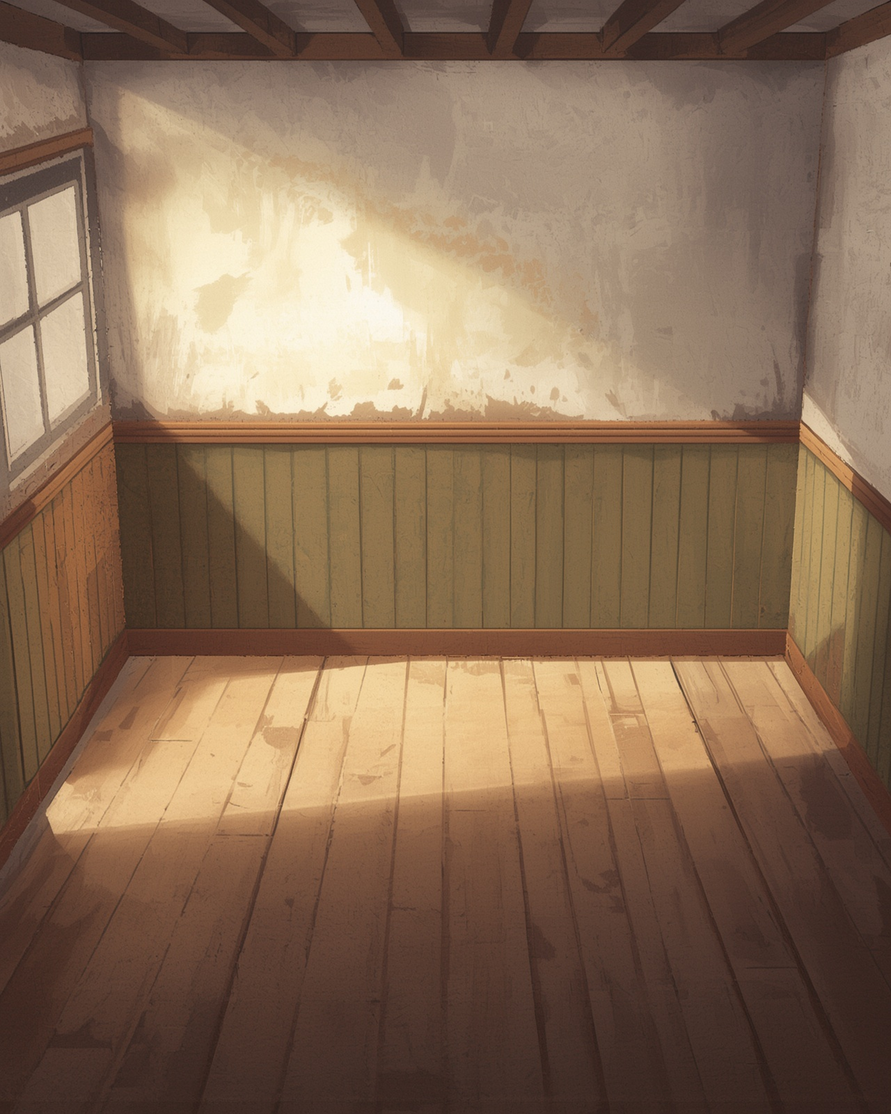
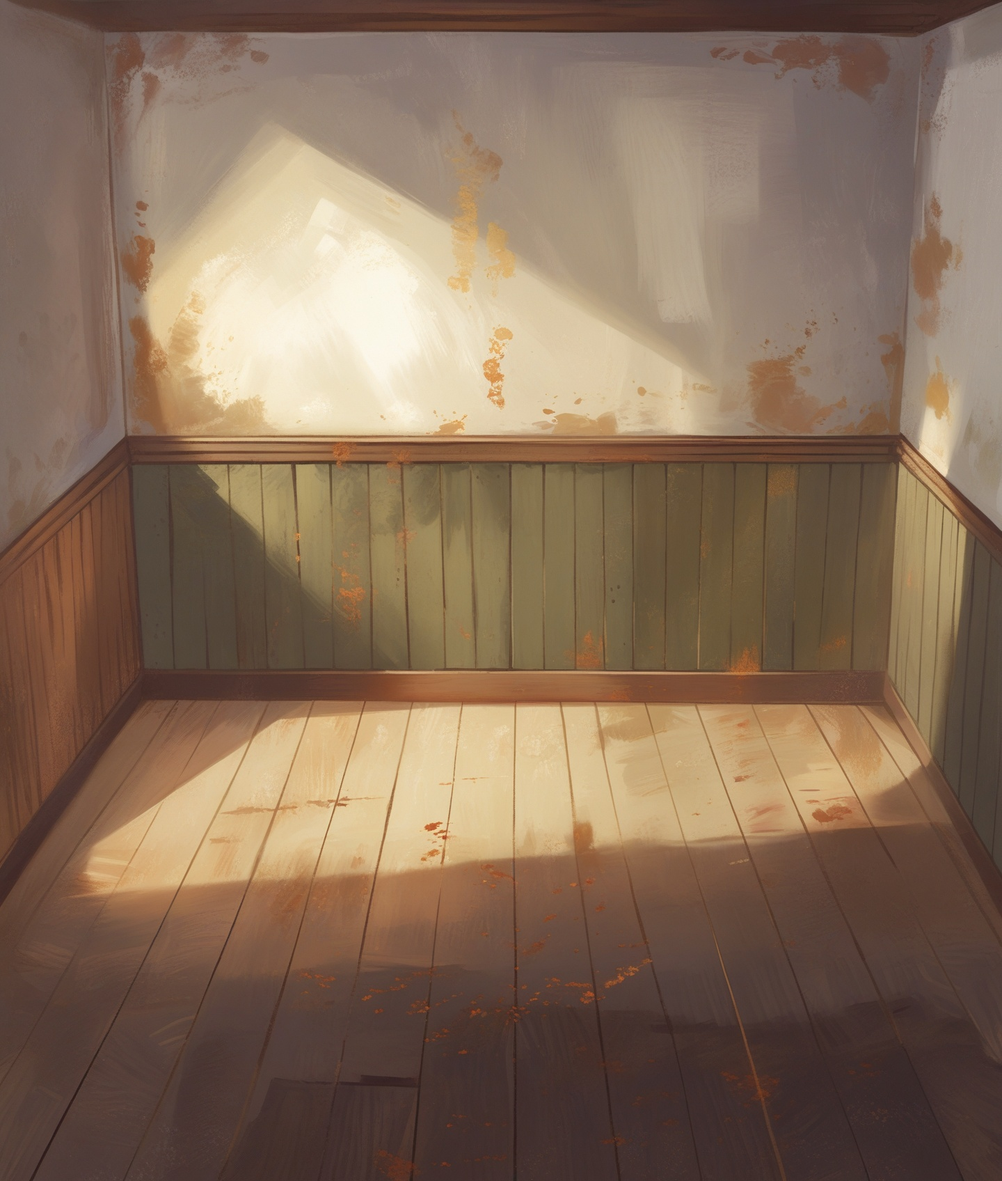
Art: new room backgrounds (cropped so the floor line sits at half height), wall clock series without numerals, blank sign sketch

diff --git a/assets/ART_TODO.md b/assets/ART_TODO.md
@@ -1,6 +1,6 @@
 # Графика: что переделать и что осталось
 
-Состояние на 13.10.2026: подключено 51 из 90 нужных картинок. Ниже два блока: **что переделать** (уже подключено, но с недостатками) и **что ещё не сгенерировано**. У каждой картинки — размер, промпт и отрицательный промпт; наборы N-… расписаны в конце файла, к каждому добавляйте N-COMMON.
+Состояние на 13.10.2026: подключено 54 из 90 нужных картинок. Ниже два блока: **что переделать** (уже подключено, но с недостатками) и **что ещё не сгенерировано**. У каждой картинки — размер, промпт и отрицательный промпт; наборы N-… расписаны в конце файла, к каждому добавляйте N-COMMON.
 
 Общие правила те же, что в `PROMPTS.md`:
 - генерируйте приватно (тариф Essential), на ровном белом фоне для спрайтов — фон я уберу сам при подключении;
@@ -14,7 +14,9 @@
 
 # Часть 1. Переделать
 
-## 1.1. Эскиз вывески — `find_f_sign` (сейчас не подключена)
+## 1.1. Эскиз вывески — `find_f_sign` — ✅ готово 13.10.2026
+
+Новая вывеска без надписи подключена. Раздел оставлен для справки.
 
 **Что не так:** на картинке крупно и читаемо написано «SHOP», в углу подпись «LADRE». Текста на картинках быть не должно (игра на двух языках, требование к медиаматериалам). Вместо букв — пустая табличка или орнамент.
 
@@ -26,10 +28,12 @@
 - **Как добиться:** если буквы всё равно появляются, сгенерируйте и закрасьте центр таблички через inpainting (Canvas → Inpaint) с промптом `empty blank sign panel, faint pencil guide lines`.
 
 ```
-cozy hand-painted 2D game illustration, soft painterly brushwork, warm golden afternoon light coming from the upper left, nostalgic calm mood, muted earthy palette of warm wood brown, cream, faded sage green, copper accents, dark metal and dust grey, clean readable shapes, gentle soft shadows, an old yellowed paper sheet on a wooden table with a pencil sketch of an ornate decorative shop sign: a curly wooden frame with flourishes and scrolls, the central panel of the sign is completely blank and empty, only faint pencil guide lines where letters will go, a few touches of paint on the scrolls, a pencil and a small brush lying next to the paper, horizontal 4:3 composition, full illustration with background, no text, no letters
+cozy hand-painted 2D game illustration, soft painterly brushwork, warm golden afternoon light coming from the upper left, nostalgic calm mood, muted earthy palette of warm wood brown, cream, faded sage green, copper accents, dark metal and dust grey, clean readable shapes, gentle soft shadows, flat frontal view straight at the back wall of a small room, like a theatre stage or a dollhouse with the front wall removed, the back wall faces the viewer squarely and fills exactly the upper half of the picture, a straight horizontal wooden baseboard runs across the whole width exactly at the middle height of the picture, the lower half of the picture is a wooden plank floor seen from slightly above with very gentle perspective, the planks run towards the wall, no side walls, no ceiling, no roof beams, no corners, symmetrical composition, the interior of an old family workshop: the back wall is made of vertical cream-painted wooden planks with a faded sage green wainscot panel along its lower part above the baseboard, the floor is worn warm brown wooden planks with a few scuffs, warm golden sunlight patches on the floor and the wall, the room is completely empty with no furniture and no objects, plenty of empty wall space, vertical composition, full background, an old yellowed paper sheet on a wooden table with a pencil sketch of an ornate decorative shop sign: a curly wooden frame with flourishes and scrolls, the central panel of the sign is completely blank and empty, only faint pencil guide lines where letters will go, a few touches of paint on the scrolls, a pencil and a small brush lying next to the paper, horizontal 4:3 composition, full illustration with background, no text, no letters
 ```
 
-## 1.2. Настенные часы — `obj_wall_clock_0`, `_1`, `_2`
+## 1.2. Настенные часы — `obj_wall_clock_0`, `_1`, `_2` — ✅ готово 13.10.2026
+
+Серия из трёх состояний без цифр подключена, контуры совпадают до пикселя. Раздел оставлен для справки: так стоит делать и остальные объекты.
 
 **Что не так:** на `obj_wall_clock_0` читаемые римские цифры; два присланных варианта для `_1` и `_2` (файлы `lucid-origin_…`) — с арабскими цифрами и это **другие часы**: при ремонте часы меняли бы форму. Нужна одна серия из трёх состояний одних и тех же часов, циферблат без цифр — с простыми метками-точками или чёрточками.
 
@@ -42,7 +46,7 @@ cozy hand-painted 2D game illustration, soft painterly brushwork, warm golden af
 - **Отрицательный промпт:** N-SPRITE + N-COMMON, дополнительно: `numerals, roman numerals, numbers, digits, brand name`
 
 ```
-cozy hand-painted 2D game illustration, soft painterly brushwork, warm golden afternoon light coming from the upper left, nostalgic calm mood, muted earthy palette of warm wood brown, cream, faded sage green, copper accents, dark metal and dust grey, clean readable shapes, gentle soft shadows, frontal view from slightly above (about 30 degrees), like looking into a dollhouse cutaway, a round vintage wall clock in a wooden case with a pendulum below, seen straight on, a plain cream clock face with simple small dot markers instead of numerals, no numbers, no roman numerals, fully restored and cared for, clean polished surfaces, warm rich colors, cozy and lived-in, running, the pendulum mid-swing, the clock face clean and bright, one single object only, centered, the whole object visible with a small empty margin around it, plain flat white background, no floor, no shadow on the ground
+cozy hand-painted 2D game illustration, soft painterly brushwork, warm golden afternoon light coming from the upper left, nostalgic calm mood, muted earthy palette of warm wood brown, cream, faded sage green, copper accents, dark metal and dust grey, clean readable shapes, gentle soft shadows, flat frontal view straight at the back wall of a small room, like a theatre stage or a dollhouse with the front wall removed, the back wall faces the viewer squarely and fills exactly the upper half of the picture, a straight horizontal wooden baseboard runs across the whole width exactly at the middle height of the picture, the lower half of the picture is a wooden plank floor seen from slightly above with very gentle perspective, the planks run towards the wall, no side walls, no ceiling, no roof beams, no corners, symmetrical composition, the interior of an old family workshop: the back wall is made of vertical cream-painted wooden planks with a faded sage green wainscot panel along its lower part above the baseboard, the floor is worn warm brown wooden planks with a few scuffs, warm golden sunlight patches on the floor and the wall, the room is completely empty with no furniture and no objects, plenty of empty wall space, vertical composition, full background, frontal view from slightly above (about 30 degrees), like looking into a dollhouse cutaway, a round vintage wall clock in a wooden case with a pendulum below, seen straight on, a plain cream clock face with simple small dot markers instead of numerals, no numbers, no roman numerals, fully restored and cared for, clean polished surfaces, warm rich colors, cozy and lived-in, running, the pendulum mid-swing, the clock face clean and bright, one single object only, centered, the whole object visible with a small empty margin around it, plain flat white background, no floor, no shadow on the ground
 ```
 
 ### `obj_wall_clock_1` — Настенные часы, шаг 1 из 2 (частично починено)
@@ -53,7 +57,7 @@ cozy hand-painted 2D game illustration, soft painterly brushwork, warm golden af
 - **Из `obj_wall_clock_2` через img2img, сила 0,3–0,5.**
 
 ```
-cozy hand-painted 2D game illustration, soft painterly brushwork, warm golden afternoon light coming from the upper left, nostalgic calm mood, muted earthy palette of warm wood brown, cream, faded sage green, copper accents, dark metal and dust grey, clean readable shapes, gentle soft shadows, frontal view from slightly above (about 30 degrees), like looking into a dollhouse cutaway, a round vintage wall clock in a wooden case with a pendulum below, seen straight on, a plain cream clock face with simple small dot markers instead of numerals, no numbers, no roman numerals, partly repaired: cleaned of dust, some parts fixed or replaced, a few signs of wear remain, warmer colors, new hands in place, the pendulum straight but still, one single object only, centered, the whole object visible with a small empty margin around it, plain flat white background, no floor, no shadow on the ground
+cozy hand-painted 2D game illustration, soft painterly brushwork, warm golden afternoon light coming from the upper left, nostalgic calm mood, muted earthy palette of warm wood brown, cream, faded sage green, copper accents, dark metal and dust grey, clean readable shapes, gentle soft shadows, flat frontal view straight at the back wall of a small room, like a theatre stage or a dollhouse with the front wall removed, the back wall faces the viewer squarely and fills exactly the upper half of the picture, a straight horizontal wooden baseboard runs across the whole width exactly at the middle height of the picture, the lower half of the picture is a wooden plank floor seen from slightly above with very gentle perspective, the planks run towards the wall, no side walls, no ceiling, no roof beams, no corners, symmetrical composition, the interior of an old family workshop: the back wall is made of vertical cream-painted wooden planks with a faded sage green wainscot panel along its lower part above the baseboard, the floor is worn warm brown wooden planks with a few scuffs, warm golden sunlight patches on the floor and the wall, the room is completely empty with no furniture and no objects, plenty of empty wall space, vertical composition, full background, frontal view from slightly above (about 30 degrees), like looking into a dollhouse cutaway, a round vintage wall clock in a wooden case with a pendulum below, seen straight on, a plain cream clock face with simple small dot markers instead of numerals, no numbers, no roman numerals, partly repaired: cleaned of dust, some parts fixed or replaced, a few signs of wear remain, warmer colors, new hands in place, the pendulum straight but still, one single object only, centered, the whole object visible with a small empty margin around it, plain flat white background, no floor, no shadow on the ground
 ```
 
 ### `obj_wall_clock_0` — Настенные часы, шаг 0 из 2 (заброшено)
@@ -64,7 +68,7 @@ cozy hand-painted 2D game illustration, soft painterly brushwork, warm golden af
 - **Из `obj_wall_clock_2` через img2img, сила 0,4–0,5.**
 
 ```
-cozy hand-painted 2D game illustration, soft painterly brushwork, warm golden afternoon light coming from the upper left, nostalgic calm mood, muted earthy palette of warm wood brown, cream, faded sage green, copper accents, dark metal and dust grey, clean readable shapes, gentle soft shadows, frontal view from slightly above (about 30 degrees), like looking into a dollhouse cutaway, a round vintage wall clock in a wooden case with a pendulum below, seen straight on, a plain cream clock face with simple small dot markers instead of numerals, no numbers, no roman numerals, abandoned and neglected, covered in thick dust and cobwebs, broken and missing parts, faded desaturated grey-brown colors, the glass cracked, the hands missing, the pendulum hanging crooked, one single object only, centered, the whole object visible with a small empty margin around it, plain flat white background, no floor, no shadow on the ground
+cozy hand-painted 2D game illustration, soft painterly brushwork, warm golden afternoon light coming from the upper left, nostalgic calm mood, muted earthy palette of warm wood brown, cream, faded sage green, copper accents, dark metal and dust grey, clean readable shapes, gentle soft shadows, flat frontal view straight at the back wall of a small room, like a theatre stage or a dollhouse with the front wall removed, the back wall faces the viewer squarely and fills exactly the upper half of the picture, a straight horizontal wooden baseboard runs across the whole width exactly at the middle height of the picture, the lower half of the picture is a wooden plank floor seen from slightly above with very gentle perspective, the planks run towards the wall, no side walls, no ceiling, no roof beams, no corners, symmetrical composition, the interior of an old family workshop: the back wall is made of vertical cream-painted wooden planks with a faded sage green wainscot panel along its lower part above the baseboard, the floor is worn warm brown wooden planks with a few scuffs, warm golden sunlight patches on the floor and the wall, the room is completely empty with no furniture and no objects, plenty of empty wall space, vertical composition, full background, frontal view from slightly above (about 30 degrees), like looking into a dollhouse cutaway, a round vintage wall clock in a wooden case with a pendulum below, seen straight on, a plain cream clock face with simple small dot markers instead of numerals, no numbers, no roman numerals, abandoned and neglected, covered in thick dust and cobwebs, broken and missing parts, faded desaturated grey-brown colors, the glass cracked, the hands missing, the pendulum hanging crooked, one single object only, centered, the whole object visible with a small empty margin around it, plain flat white background, no floor, no shadow on the ground
 ```
 
 ## 1.3. Финальная карточка мастерской — `final_card` (по желанию)
@@ -78,10 +82,12 @@ cozy hand-painted 2D game illustration, soft painterly brushwork, warm golden af
 - **Отрицательный промпт:** N-CARD + N-COMMON, дополнительно: `numerals, roman numerals, numbers, digits`
 
 ```
-cozy hand-painted 2D game illustration, soft painterly brushwork, warm golden afternoon light coming from the upper left, nostalgic calm mood, muted earthy palette of warm wood brown, cream, faded sage green, copper accents, dark metal and dust grey, clean readable shapes, gentle soft shadows, a fully restored cozy workshop in the warm evening: the desk lamp glowing, the radio dial lit, a round wall clock with a plain cream face and simple dot markers instead of numerals on the wall, tools neatly in their places, everything warm and alive, horizontal 4:3 composition, full illustration with background
+cozy hand-painted 2D game illustration, soft painterly brushwork, warm golden afternoon light coming from the upper left, nostalgic calm mood, muted earthy palette of warm wood brown, cream, faded sage green, copper accents, dark metal and dust grey, clean readable shapes, gentle soft shadows, flat frontal view straight at the back wall of a small room, like a theatre stage or a dollhouse with the front wall removed, the back wall faces the viewer squarely and fills exactly the upper half of the picture, a straight horizontal wooden baseboard runs across the whole width exactly at the middle height of the picture, the lower half of the picture is a wooden plank floor seen from slightly above with very gentle perspective, the planks run towards the wall, no side walls, no ceiling, no roof beams, no corners, symmetrical composition, the interior of an old family workshop: the back wall is made of vertical cream-painted wooden planks with a faded sage green wainscot panel along its lower part above the baseboard, the floor is worn warm brown wooden planks with a few scuffs, warm golden sunlight patches on the floor and the wall, the room is completely empty with no furniture and no objects, plenty of empty wall space, vertical composition, full background, a fully restored cozy workshop in the warm evening: the desk lamp glowing, the radio dial lit, a round wall clock with a plain cream face and simple dot markers instead of numerals on the wall, tools neatly in their places, everything warm and alive, horizontal 4:3 composition, full illustration with background
 ```
 
-## 1.4. Фоны комнат — `room_bg` и `room_paint_bg` (обязательно)
+## 1.4. Фоны комнат — `room_bg` и `room_paint_bg` — ✅ готово 13.10.2026
+
+Новые фоны подключены. Плинтус у них был на 60–61% высоты: я срезал сверху полосу потолка и немного боковых стен, чтобы он встал ровно посередине (оригиналы — в `assets/source/raw/`). Если будете перегенерировать — делайте сразу по подсказке композиции.
 
 **Что не так:** игра расставляет объекты по сетке: всё настенное (полки, окна, часы, антресоль, радио, стеллаж) стоит в **верхней половине** комнаты, всё напольное (верстак, шкаф, столы, кучи завала) — в **нижней**. Нынешние фоны нарисованы с глубокой перспективой: двускатная крыша, большие боковые стены, пол начинается ниже середины. Поэтому напольные вещи «залезают» на стены.
 
@@ -106,7 +112,7 @@ cozy hand-painted 2D game illustration, soft painterly brushwork, warm golden af
 - **Важно:** никаких предметов — окно, полка, часы, верстак и шкаф будут отдельными спрайтами поверх фона.
 
 ```
-cozy hand-painted 2D game illustration, soft painterly brushwork, warm golden afternoon light coming from the upper left, nostalgic calm mood, muted earthy palette of warm wood brown, cream, faded sage green, copper accents, dark metal and dust grey, clean readable shapes, gentle soft shadows, flat frontal view straight at the back wall of a small room, like a theatre stage or a dollhouse with the front wall removed, the back wall faces the viewer squarely and fills exactly the upper half of the picture, a straight horizontal wooden baseboard runs across the whole width exactly at the middle height of the picture, the lower half of the picture is a wooden plank floor seen from slightly above with very gentle perspective, the planks run towards the wall, no side walls, no ceiling, no roof beams, no corners, symmetrical composition, the interior of an old family workshop: the back wall is made of vertical cream-painted wooden planks with a faded sage green wainscot panel along its lower part above the baseboard, the floor is worn warm brown wooden planks with a few scuffs, warm golden sunlight patches on the floor and the wall, the room is completely empty with no furniture and no objects, plenty of empty wall space, vertical composition, full background
+cozy hand-painted 2D game illustration, soft painterly brushwork, warm golden afternoon light coming from the upper left, nostalgic calm mood, muted earthy palette of warm wood brown, cream, faded sage green, copper accents, dark metal and dust grey, clean readable shapes, gentle soft shadows, flat frontal view straight at the back wall of a small room, like a theatre stage or a dollhouse with the front wall removed, the back wall faces the viewer squarely and fills exactly the upper half of the picture, a straight horizontal wooden baseboard runs across the whole width exactly at the middle height of the picture, the lower half of the picture is a wooden plank floor seen from slightly above with very gentle perspective, the planks run towards the wall, no side walls, no ceiling, no roof beams, no corners, symmetrical composition, the interior of an old family workshop: the back wall is made of vertical cream-painted wooden planks with a faded sage green wainscot panel along its lower part above the baseboard, the floor is worn warm brown wooden planks with a few scuffs, warm golden sunlight patches on the floor and the wall, the room is completely empty with no furniture and no objects, plenty of empty wall space, vertical composition, full background, flat frontal view straight at the back wall of a small room, like a theatre stage or a dollhouse with the front wall removed, the back wall faces the viewer squarely and fills exactly the upper half of the picture, a straight horizontal wooden baseboard runs across the whole width exactly at the middle height of the picture, the lower half of the picture is a wooden plank floor seen from slightly above with very gentle perspective, the planks run towards the wall, no side walls, no ceiling, no roof beams, no corners, symmetrical composition, the interior of an old family workshop: the back wall is made of vertical cream-painted wooden planks with a faded sage green wainscot panel along its lower part above the baseboard, the floor is worn warm brown wooden planks with a few scuffs, warm golden sunlight patches on the floor and the wall, the room is completely empty with no furniture and no objects, plenty of empty wall space, vertical composition, full background
 ```
 
 ### `room_paint_bg` — Фон малярной (пустая комната)
@@ -118,7 +124,7 @@ cozy hand-painted 2D game illustration, soft painterly brushwork, warm golden af
 - **Важно:** тот же ракурс и линия пола, что у мастерской: комнаты должны выглядеть соседними в одном доме. Стеллаж, окно, мольберт, стремянку и столы не рисовать.
 
 ```
-cozy hand-painted 2D game illustration, soft painterly brushwork, warm golden afternoon light coming from the upper left, nostalgic calm mood, muted earthy palette of warm wood brown, cream, faded sage green, copper accents, dark metal and dust grey, clean readable shapes, gentle soft shadows, flat frontal view straight at the back wall of a small room, like a theatre stage or a dollhouse with the front wall removed, the back wall faces the viewer squarely and fills exactly the upper half of the picture, a straight horizontal wooden baseboard runs across the whole width exactly at the middle height of the picture, the lower half of the picture is a wooden plank floor seen from slightly above with very gentle perspective, the planks run towards the wall, no side walls, no ceiling, no roof beams, no corners, symmetrical composition, the interior of an old family paint shop: the back wall is whitewashed plaster with old faint splashes of honey, sage green and warm red paint and a sage green wooden wainscot panel along its lower part above the baseboard, the floor is worn light wooden planks with old dried paint drips, warm golden sunlight patches on the floor and the wall, the room is completely empty with no furniture and no objects, plenty of empty wall space, vertical composition, full background
+cozy hand-painted 2D game illustration, soft painterly brushwork, warm golden afternoon light coming from the upper left, nostalgic calm mood, muted earthy palette of warm wood brown, cream, faded sage green, copper accents, dark metal and dust grey, clean readable shapes, gentle soft shadows, flat frontal view straight at the back wall of a small room, like a theatre stage or a dollhouse with the front wall removed, the back wall faces the viewer squarely and fills exactly the upper half of the picture, a straight horizontal wooden baseboard runs across the whole width exactly at the middle height of the picture, the lower half of the picture is a wooden plank floor seen from slightly above with very gentle perspective, the planks run towards the wall, no side walls, no ceiling, no roof beams, no corners, symmetrical composition, the interior of an old family workshop: the back wall is made of vertical cream-painted wooden planks with a faded sage green wainscot panel along its lower part above the baseboard, the floor is worn warm brown wooden planks with a few scuffs, warm golden sunlight patches on the floor and the wall, the room is completely empty with no furniture and no objects, plenty of empty wall space, vertical composition, full background, flat frontal view straight at the back wall of a small room, like a theatre stage or a dollhouse with the front wall removed, the back wall faces the viewer squarely and fills exactly the upper half of the picture, a straight horizontal wooden baseboard runs across the whole width exactly at the middle height of the picture, the lower half of the picture is a wooden plank floor seen from slightly above with very gentle perspective, the planks run towards the wall, no side walls, no ceiling, no roof beams, no corners, symmetrical composition, the interior of an old family paint shop: the back wall is whitewashed plaster with old faint splashes of honey, sage green and warm red paint and a sage green wooden wainscot panel along its lower part above the baseboard, the floor is worn light wooden planks with old dried paint drips, warm golden sunlight patches on the floor and the wall, the room is completely empty with no furniture and no objects, plenty of empty wall space, vertical composition, full background
 ```
 
 ## 1.5. Окно — `obj_window_0`, `_1`, `_2` (по желанию)
@@ -132,7 +138,7 @@ cozy hand-painted 2D game illustration, soft painterly brushwork, warm golden af
 - **Отрицательный промпт:** N-SPRITE + N-COMMON, дополнительно: `plaster, wall patch, brush strokes around the object, splashes, vines outside the frame`
 
 ```
-cozy hand-painted 2D game illustration, soft painterly brushwork, warm golden afternoon light coming from the upper left, nostalgic calm mood, muted earthy palette of warm wood brown, cream, faded sage green, copper accents, dark metal and dust grey, clean readable shapes, gentle soft shadows, frontal view from slightly above (about 30 degrees), like looking into a dollhouse cutaway, an old small-paned wooden window seen straight on, as a separate object, crisp clean edges around the frame, nothing around the frame, no wall, no plaster, no paint strokes around it, fully restored and cared for, clean polished surfaces, warm rich colors, cozy and lived-in, clean clear panes with warm daylight shining through, a green leafy view outside, one single object only, centered, the whole object visible with a small empty margin around it, plain flat white background, no floor, no shadow on the ground
+cozy hand-painted 2D game illustration, soft painterly brushwork, warm golden afternoon light coming from the upper left, nostalgic calm mood, muted earthy palette of warm wood brown, cream, faded sage green, copper accents, dark metal and dust grey, clean readable shapes, gentle soft shadows, flat frontal view straight at the back wall of a small room, like a theatre stage or a dollhouse with the front wall removed, the back wall faces the viewer squarely and fills exactly the upper half of the picture, a straight horizontal wooden baseboard runs across the whole width exactly at the middle height of the picture, the lower half of the picture is a wooden plank floor seen from slightly above with very gentle perspective, the planks run towards the wall, no side walls, no ceiling, no roof beams, no corners, symmetrical composition, the interior of an old family workshop: the back wall is made of vertical cream-painted wooden planks with a faded sage green wainscot panel along its lower part above the baseboard, the floor is worn warm brown wooden planks with a few scuffs, warm golden sunlight patches on the floor and the wall, the room is completely empty with no furniture and no objects, plenty of empty wall space, vertical composition, full background, frontal view from slightly above (about 30 degrees), like looking into a dollhouse cutaway, an old small-paned wooden window seen straight on, as a separate object, crisp clean edges around the frame, nothing around the frame, no wall, no plaster, no paint strokes around it, fully restored and cared for, clean polished surfaces, warm rich colors, cozy and lived-in, clean clear panes with warm daylight shining through, a green leafy view outside, one single object only, centered, the whole object visible with a small empty margin around it, plain flat white background, no floor, no shadow on the ground
 ```
 
 ### `obj_window_1` — Окно, шаг 1 из 2 (частично починено)
@@ -143,7 +149,7 @@ cozy hand-painted 2D game illustration, soft painterly brushwork, warm golden af
 - **Из `obj_window_2` через img2img, сила 0,3–0,5.**
 
 ```
-cozy hand-painted 2D game illustration, soft painterly brushwork, warm golden afternoon light coming from the upper left, nostalgic calm mood, muted earthy palette of warm wood brown, cream, faded sage green, copper accents, dark metal and dust grey, clean readable shapes, gentle soft shadows, frontal view from slightly above (about 30 degrees), like looking into a dollhouse cutaway, an old small-paned wooden window seen straight on, as a separate object, crisp clean edges around the frame, nothing around the frame, no wall, no plaster, no paint strokes around it, partly repaired: cleaned of dust, some parts fixed or replaced, a few signs of wear remain, warmer colors, the frame repaired and repainted sage green, the glass still cloudy, one single object only, centered, the whole object visible with a small empty margin around it, plain flat white background, no floor, no shadow on the ground
+cozy hand-painted 2D game illustration, soft painterly brushwork, warm golden afternoon light coming from the upper left, nostalgic calm mood, muted earthy palette of warm wood brown, cream, faded sage green, copper accents, dark metal and dust grey, clean readable shapes, gentle soft shadows, flat frontal view straight at the back wall of a small room, like a theatre stage or a dollhouse with the front wall removed, the back wall faces the viewer squarely and fills exactly the upper half of the picture, a straight horizontal wooden baseboard runs across the whole width exactly at the middle height of the picture, the lower half of the picture is a wooden plank floor seen from slightly above with very gentle perspective, the planks run towards the wall, no side walls, no ceiling, no roof beams, no corners, symmetrical composition, the interior of an old family workshop: the back wall is made of vertical cream-painted wooden planks with a faded sage green wainscot panel along its lower part above the baseboard, the floor is worn warm brown wooden planks with a few scuffs, warm golden sunlight patches on the floor and the wall, the room is completely empty with no furniture and no objects, plenty of empty wall space, vertical composition, full background, frontal view from slightly above (about 30 degrees), like looking into a dollhouse cutaway, an old small-paned wooden window seen straight on, as a separate object, crisp clean edges around the frame, nothing around the frame, no wall, no plaster, no paint strokes around it, partly repaired: cleaned of dust, some parts fixed or replaced, a few signs of wear remain, warmer colors, the frame repaired and repainted sage green, the glass still cloudy, one single object only, centered, the whole object visible with a small empty margin around it, plain flat white background, no floor, no shadow on the ground
 ```
 
 ### `obj_window_0` — Окно, шаг 0 из 2 (заброшено)
@@ -154,7 +160,7 @@ cozy hand-painted 2D game illustration, soft painterly brushwork, warm golden af
 - **Из `obj_window_2` через img2img, сила 0,4–0,5.**
 
 ```
-cozy hand-painted 2D game illustration, soft painterly brushwork, warm golden afternoon light coming from the upper left, nostalgic calm mood, muted earthy palette of warm wood brown, cream, faded sage green, copper accents, dark metal and dust grey, clean readable shapes, gentle soft shadows, frontal view from slightly above (about 30 degrees), like looking into a dollhouse cutaway, an old small-paned wooden window seen straight on, as a separate object, crisp clean edges around the frame, nothing around the frame, no wall, no plaster, no paint strokes around it, abandoned and neglected, covered in thick dust and cobwebs, broken and missing parts, faded desaturated grey-brown colors, dirty cracked panes, peeling paint on the frame, cobwebs in the corners, one single object only, centered, the whole object visible with a small empty margin around it, plain flat white background, no floor, no shadow on the ground
+cozy hand-painted 2D game illustration, soft painterly brushwork, warm golden afternoon light coming from the upper left, nostalgic calm mood, muted earthy palette of warm wood brown, cream, faded sage green, copper accents, dark metal and dust grey, clean readable shapes, gentle soft shadows, flat frontal view straight at the back wall of a small room, like a theatre stage or a dollhouse with the front wall removed, the back wall faces the viewer squarely and fills exactly the upper half of the picture, a straight horizontal wooden baseboard runs across the whole width exactly at the middle height of the picture, the lower half of the picture is a wooden plank floor seen from slightly above with very gentle perspective, the planks run towards the wall, no side walls, no ceiling, no roof beams, no corners, symmetrical composition, the interior of an old family workshop: the back wall is made of vertical cream-painted wooden planks with a faded sage green wainscot panel along its lower part above the baseboard, the floor is worn warm brown wooden planks with a few scuffs, warm golden sunlight patches on the floor and the wall, the room is completely empty with no furniture and no objects, plenty of empty wall space, vertical composition, full background, frontal view from slightly above (about 30 degrees), like looking into a dollhouse cutaway, an old small-paned wooden window seen straight on, as a separate object, crisp clean edges around the frame, nothing around the frame, no wall, no plaster, no paint strokes around it, abandoned and neglected, covered in thick dust and cobwebs, broken and missing parts, faded desaturated grey-brown colors, dirty cracked panes, peeling paint on the frame, cobwebs in the corners, one single object only, centered, the whole object visible with a small empty margin around it, plain flat white background, no floor, no shadow on the ground
 ```
 
 ---

diff --git a/RELEASE_CHECKLIST.md b/RELEASE_CHECKLIST.md
@@ -14,7 +14,7 @@
 | 6 | Сохранения работают после обновления страницы и повторного открытия браузера | Проверено в браузере на ПК. **Проверить на телефонах и в черновике** (облако) |
 | 7 | Реклама только через SDK; задержка ≤ 2 с; подписи наград понятны | Код готов: показ вызывается сразу после действия, без промежуточных экранов. **Проверить в черновике** |
 | 8 | Язык определяется через SDK; тексты на русском без ошибок | Код готов. **Вычитать русские тексты**, английский вычитан, проверить в черновике с `&lang=en` |
-| 9 | Игра выглядит законченной; финальные графика и звук подключены | **Не выполнено:** подключено 51 из 90 нужных картинок, фоны комнат нужно переделать; звуки интерфейса синтезированы, звуков завала и мелодии радио нет. Список — `assets/ART_TODO.md`, `assets/SOUND_PROMPTS.md` |
+| 9 | Игра выглядит законченной; финальные графика и звук подключены | **Не выполнено:** подключено 54 из 90 нужных картинок; звуки интерфейса синтезированы, звуков завала и мелодии радио нет. Список — `assets/ART_TODO.md`, `assets/SOUND_PROMPTS.md` |
 | 10 | В контенте нет политики, войн, религии и мата; права на материалы подтверждены | Тексты проверены при написании. Графика — Leonardo.ai, тариф Essential, приватная генерация; звуки интерфейса синтезированы кодом (`assets/LICENSES.md`). Перед релизом сверить действующие условия Leonardo |
 | 11 | Игра не копирует другую из каталога (3.6) | **Владелец:** проверить каталог на похожие игры и название |
 | 12 | Поля черновика заполнены; иконка и обложка не скриншоты; на скриншотах ≥ 70% геймплея; нет рамок и элементов интерфейса Яндекс Игр; тексты в полях не дублируются | **Владелец** |

diff --git a/NEXT_STEPS.md b/NEXT_STEPS.md
@@ -19,14 +19,14 @@
 
 ## 2. Графика — главное, что осталось
 
-Полный список с промптами и размерами — `assets/ART_TODO.md`. Подключено 51 из 90 нужных картинок. Порядок:
+Полный список с промптами и размерами — `assets/ART_TODO.md`. Подключено 54 из 90 нужных картинок. 13.10.2026 готовы фоны комнат, часы и вывеска. Порядок:
 
 | № | Что | Сколько | Раздел ART_TODO | Почему в этом порядке |
 | --- | --- | --- | --- | --- |
-| 1 | **Фоны комнат** `room_bg`, `room_paint_bg` по новой композиции | 2 | 1.4 | Без них расстановка не сходится: напольные вещи «лезут» на стены. Загрузите в Leonardo картинку-подсказку из `assets/source/guides/` как Image to Image |
+| 1 | ✅ ~~Фоны комнат~~ — готово | 2 | 1.4 | Без них расстановка не сходится: напольные вещи «лезут» на стены. Загрузите в Leonardo картинку-подсказку из `assets/source/guides/` как Image to Image |
 | 2 | Верстак `_0`, `_1` и лампа `_0`, `_1` | 4 | 2.1 | Сейчас в начале игры на их месте заглушки — первое, что видит игрок |
-| 3 | Часы `_0`, `_1`, `_2` без цифр, одной серией | 3 | 1.2 | Цифры на картинках нарушают правило «без текста»; сейчас часы разной формы |
-| 4 | Вывеска `find_f_sign` без надписи | 1 | 1.1 | Сейчас вместо неё заглушка |
+| 3 | ✅ ~~Часы без цифр~~ — готово | 3 | 1.2 | Цифры на картинках нарушают правило «без текста»; сейчас часы разной формы |
+| 4 | ✅ ~~Вывеска без надписи~~ — готово | 1 | 1.1 | Сейчас вместо неё заглушка |
 | 5 | Вступление `story_*` | 4 | 2.0 | Первое, что видит новый игрок |
 | 6 | Объекты малярной | 28 | 2.2 | Вторая комната; можно на токенах следующего месяца |
 | 7 | По желанию: окна без мазков, финальная карточка без цифр на часах | 4 | 1.5, 1.3 | Мелкие улучшения |

diff --git a/assets/LICENSES.md b/assets/LICENSES.md
@@ -35,6 +35,7 @@
 
 - [x] `room_bg` (13.10.2026; нижняя полоса с подписью-водяным знаком обрезана)
 - [x] `obj_workbench_3`
+- [x] 13.10.2026 (вторая партия, Essential, приватно): новые `room_bg`, `room_paint_bg` (обрезаны сверху и с боков, чтобы плинтус встал посередине), `obj_wall_clock_0..2`, `find_f_sign`
 - [x] `find_f_photo`, `find_f_screws`, `find_f_note`, `find_f_radio`, `find_f_clock`
 - [x] `final_card`
 - [x] `logo`
